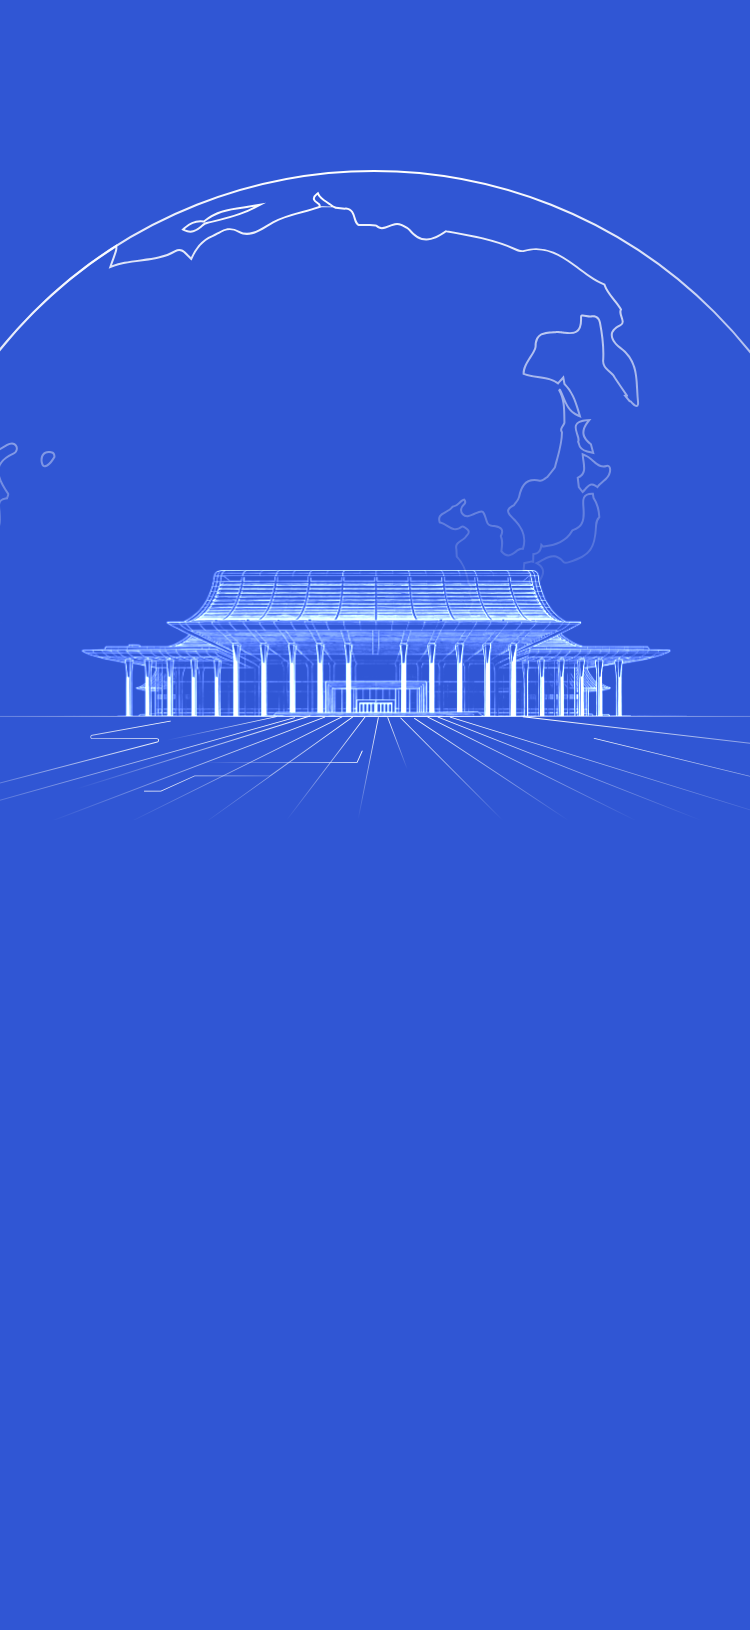
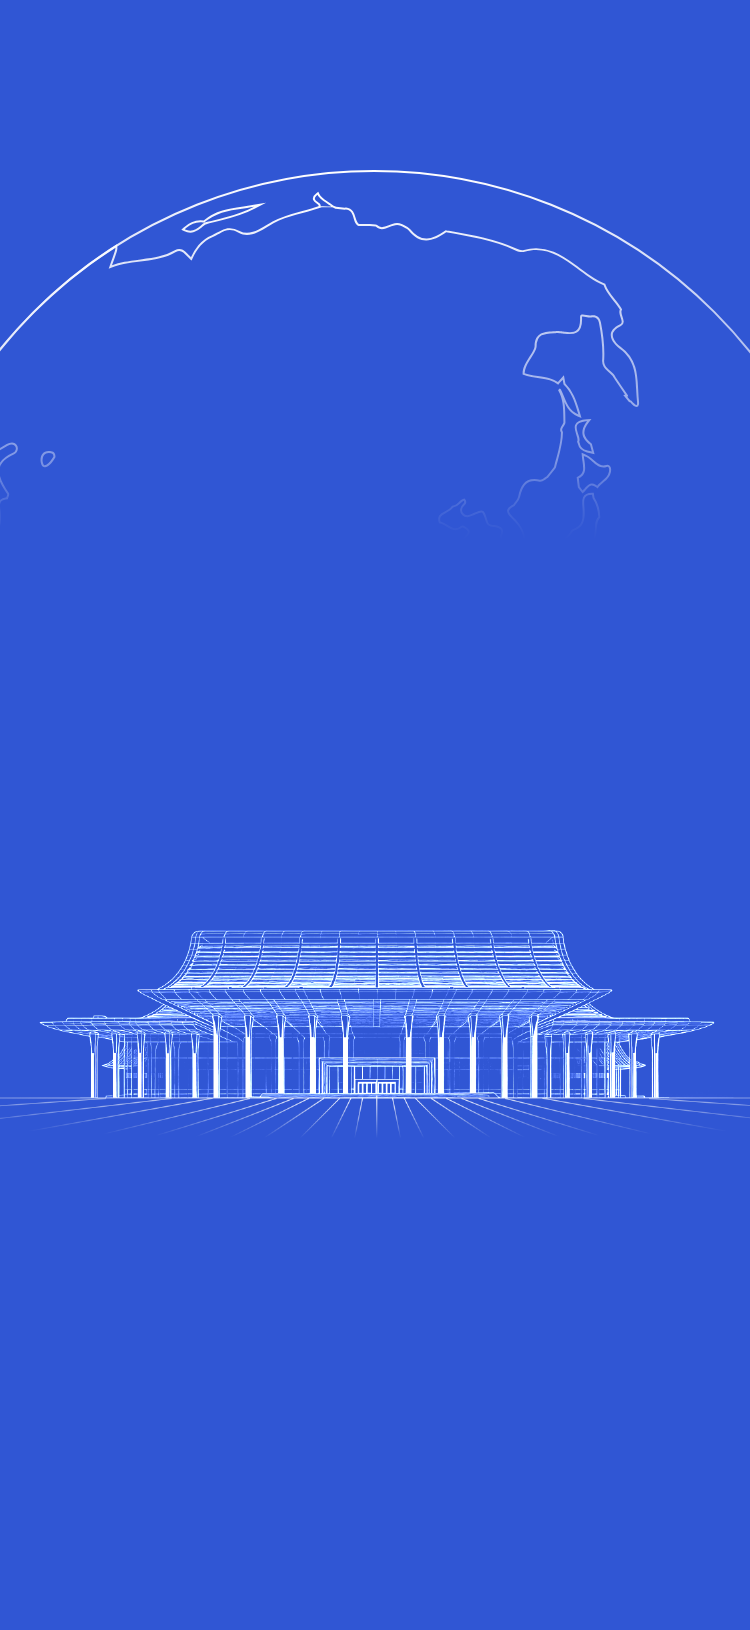
H5 首页: 建筑线稿对齐设计稿位置
- 旧 home_bg.png 里的建筑在 y≈285-410 (偏上偏小)，设计稿应为 y≈455-610、宽约 90%
- 地球线稿沿用现有干净图并渐隐收尾；建筑线稿从 MasterGo 最新首页画板纯线稿区裁出贴到正确位置
- 逐行亮像素比对：新背景与设计稿建筑区 y470-555 分布基本一致
- CSS 加 ?v=home20261102 破缓存，background-size 375px 815px 不变

Changed region(s): [[0.0613, 0.5521, 0.92, 0.6748], [0.1227, 0.3374, 0.8893, 0.4908]]

diff --git a/backend/public/h5/ec9/css/style.css b/backend/public/h5/ec9/css/style.css
@@ -132,7 +132,7 @@ html[lang="en"] .brand { background-image: url(../img/signup_bg_en.png?v=3x20261
   height: 815px;
   margin: 0 auto;
   overflow: hidden;
-  background: url(../img/home_bg.png) no-repeat center top;
+  background: url(../img/home_bg.png?v=home20261102) no-repeat center top;
   background-size: 375px 815px;
 }
 .home-stage .home-hero,
